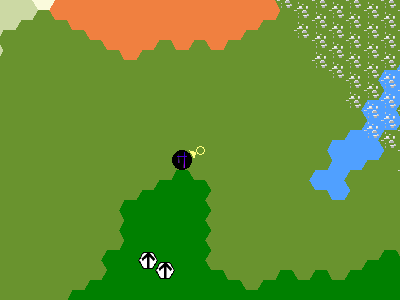
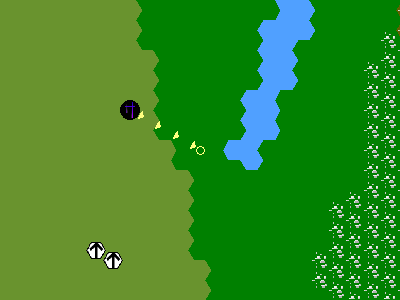
Improved RNG
Unfortunately that means all previous RNG values need to be scrapped.

diff --git a/src/main/java/botmanager/frostbalance/commands/map/BuildGathererCommand.kt b/src/main/java/botmanager/frostbalance/commands/map/BuildGathererCommand.kt
@@ -15,6 +15,10 @@ class BuildGathererCommand(bot: Frostbalance) : FrostbalanceGuildCommand(bot, ar
 
     override fun executeWithGuild(context: GuildMessageContext, vararg params: String) {
 
+        if (context.author.playerIn(context.gameNetwork).character.tile.resourceData.priorityOrderDeposits().isEmpty()) {
+            return context.sendResponse("There are no resources to gather on this tile! You'll need to find some with `.search`.\n" +
+                    "This will take 10 minutes on average, but maybe longer.")
+        }
         BuildGathererMenu(bot, context).send()
 
     }

diff --git a/src/main/java/botmanager/Utilities.java b/src/main/java/botmanager/Utilities.java
@@ -393,7 +393,7 @@ public class Utilities {
     public static long combineSeed(long... seeds) {
         long total = 0;
         for (long seed : seeds) {
-            total = total * 1008001L + seed;
+            total = total * 1008001L + new Random(seed).nextInt(0xFFFF);
         }
         return total;
     }
